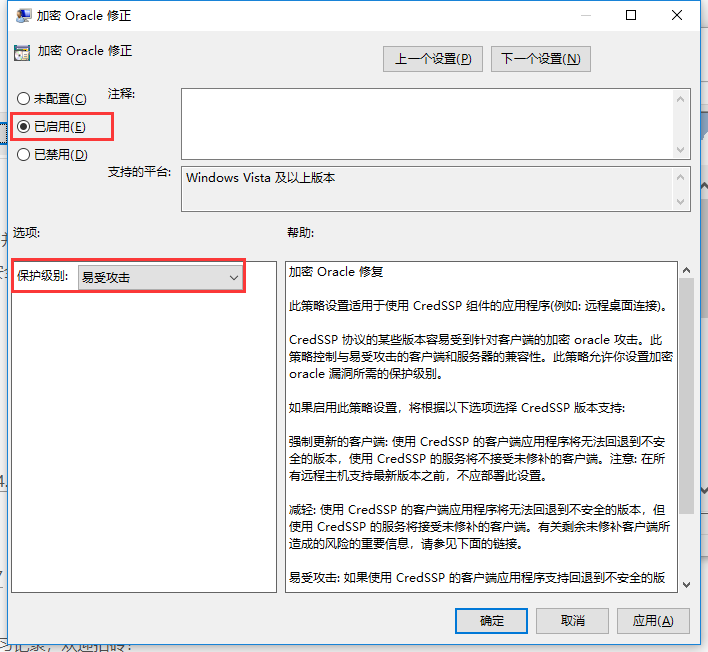
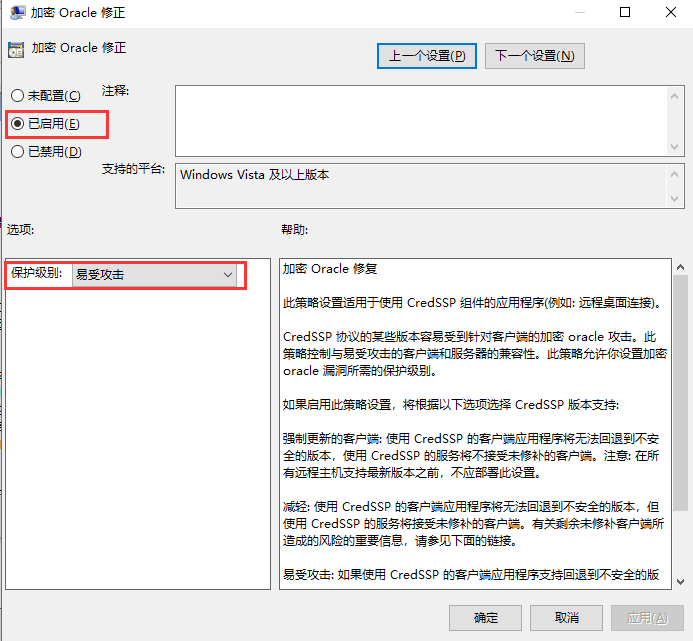
Site updated: 2018-05-14 13:54:21

diff --git a/arlo/9bdfcc8c/index.html b/arlo/9bdfcc8c/index.html
@@ -92,7 +92,7 @@
 <meta property="og:image" content="http://islocal.cc/images/2017/1031/07.png">
 <meta property="og:image" content="http://islocal.cc/images/2017/1031/08.png">
 <meta property="og:image" content="http://islocal.cc/images/2017/1031/09.png">
-<meta property="og:updated_time" content="2018-05-14T05:49:19.142Z">
+<meta property="og:updated_time" content="2018-05-14T05:54:07.523Z">
 <meta name="twitter:card" content="summary">
 <meta name="twitter:title" content="Windows组策略几个问题小计">
 <meta name="twitter:description" content="注册表编辑被管理员禁用第一步：打开组策略窗口，开始-运行-gptdit.msc第二步：选择用户配置-管理模板-系统，双击系统选项找到【阻止访问注册表编辑工具】第三步：双击【阻止访问注册表编辑工具】选择已禁用，点击确定。第四步：在开始-运行输入regedit，打开注册表。 说明注册表已经可以访问了。">
@@ -356,8 +356,9 @@
 <ol>
 <li>开始运行输入gpedit.msc</li>
 <li>计算机配置&gt;管理模板&gt;系统&gt;凭据分配&gt;加密Oracle修正 选择启用并选择易受攻击。</li>
-<li>易受攻击– 使用 CredSSP 的客户端应用程序将通过支持回退到不安全的版本使远程服务器遭受攻击，但使用 CredSSP 的服务将接受未修补的客户端。<br><img src="/images/2017/1031/09.png" alt="windows"><br>PS:该操作仅用于专业版，如果是家庭版请考虑升级(本人是家庭版，在X宝上买的key升级为专业版了)。</li>
+<li>易受攻击– 使用 CredSSP 的客户端应用程序将通过支持回退到不安全的版本使远程服务器遭受攻击，但使用 CredSSP 的服务将接受未修补的客户端。</li>
 </ol>
+<p><img src="/images/2017/1031/09.png" alt="windows"><br>PS:该操作仅用于专业版，如果是家庭版请考虑升级(本人是家庭版，在X宝上买的key升级为专业版了)。</p>
 <p>参考地址：<br><a href="http://ytweb.blog.51cto.com/5865824/1177266" target="_blank" rel="external">http://ytweb.blog.51cto.com/5865824/1177266</a><br><a href="https://jingyan.baidu.com/article/3a2f7c2e6ab84626afd61114.html" target="_blank" rel="external">https://jingyan.baidu.com/article/3a2f7c2e6ab84626afd61114.html</a><br><a href="http://blog.sina.com.cn/s/blog_4298a2c80102vii4.html" target="_blank" rel="external">http://blog.sina.com.cn/s/blog_4298a2c80102vii4.html</a><br><a href="http://www.cnblogs.com/q149072205/p/6097433.html" target="_blank" rel="external">http://www.cnblogs.com/q149072205/p/6097433.html</a><br><a href="http://blog.csdn.net/flyingdream123/article/details/50724107" target="_blank" rel="external">http://blog.csdn.net/flyingdream123/article/details/50724107</a> </p>
 
       
